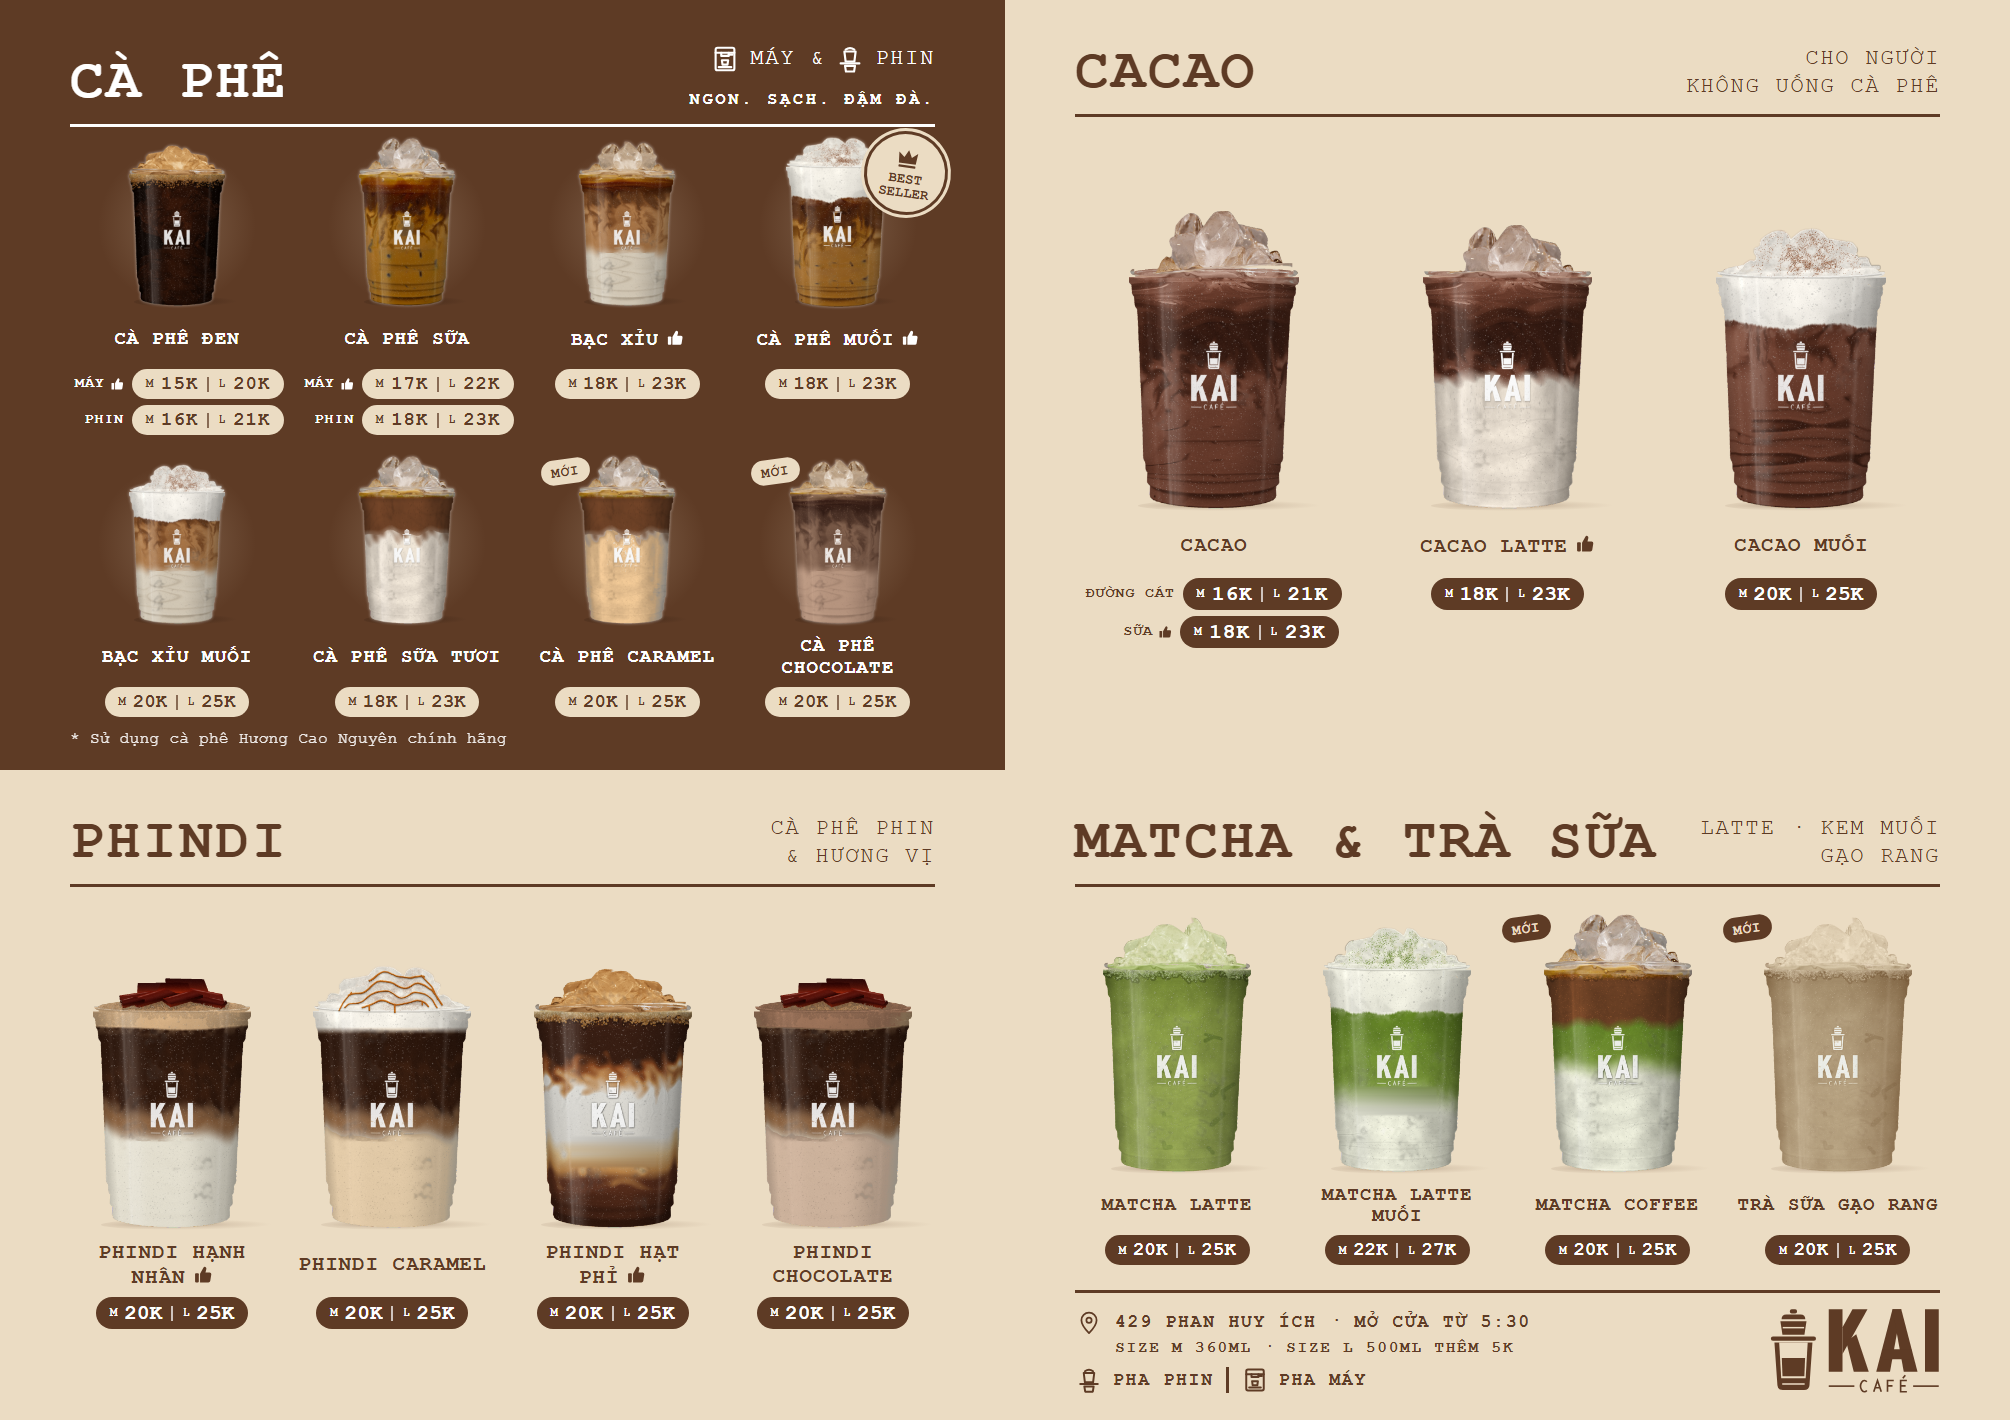
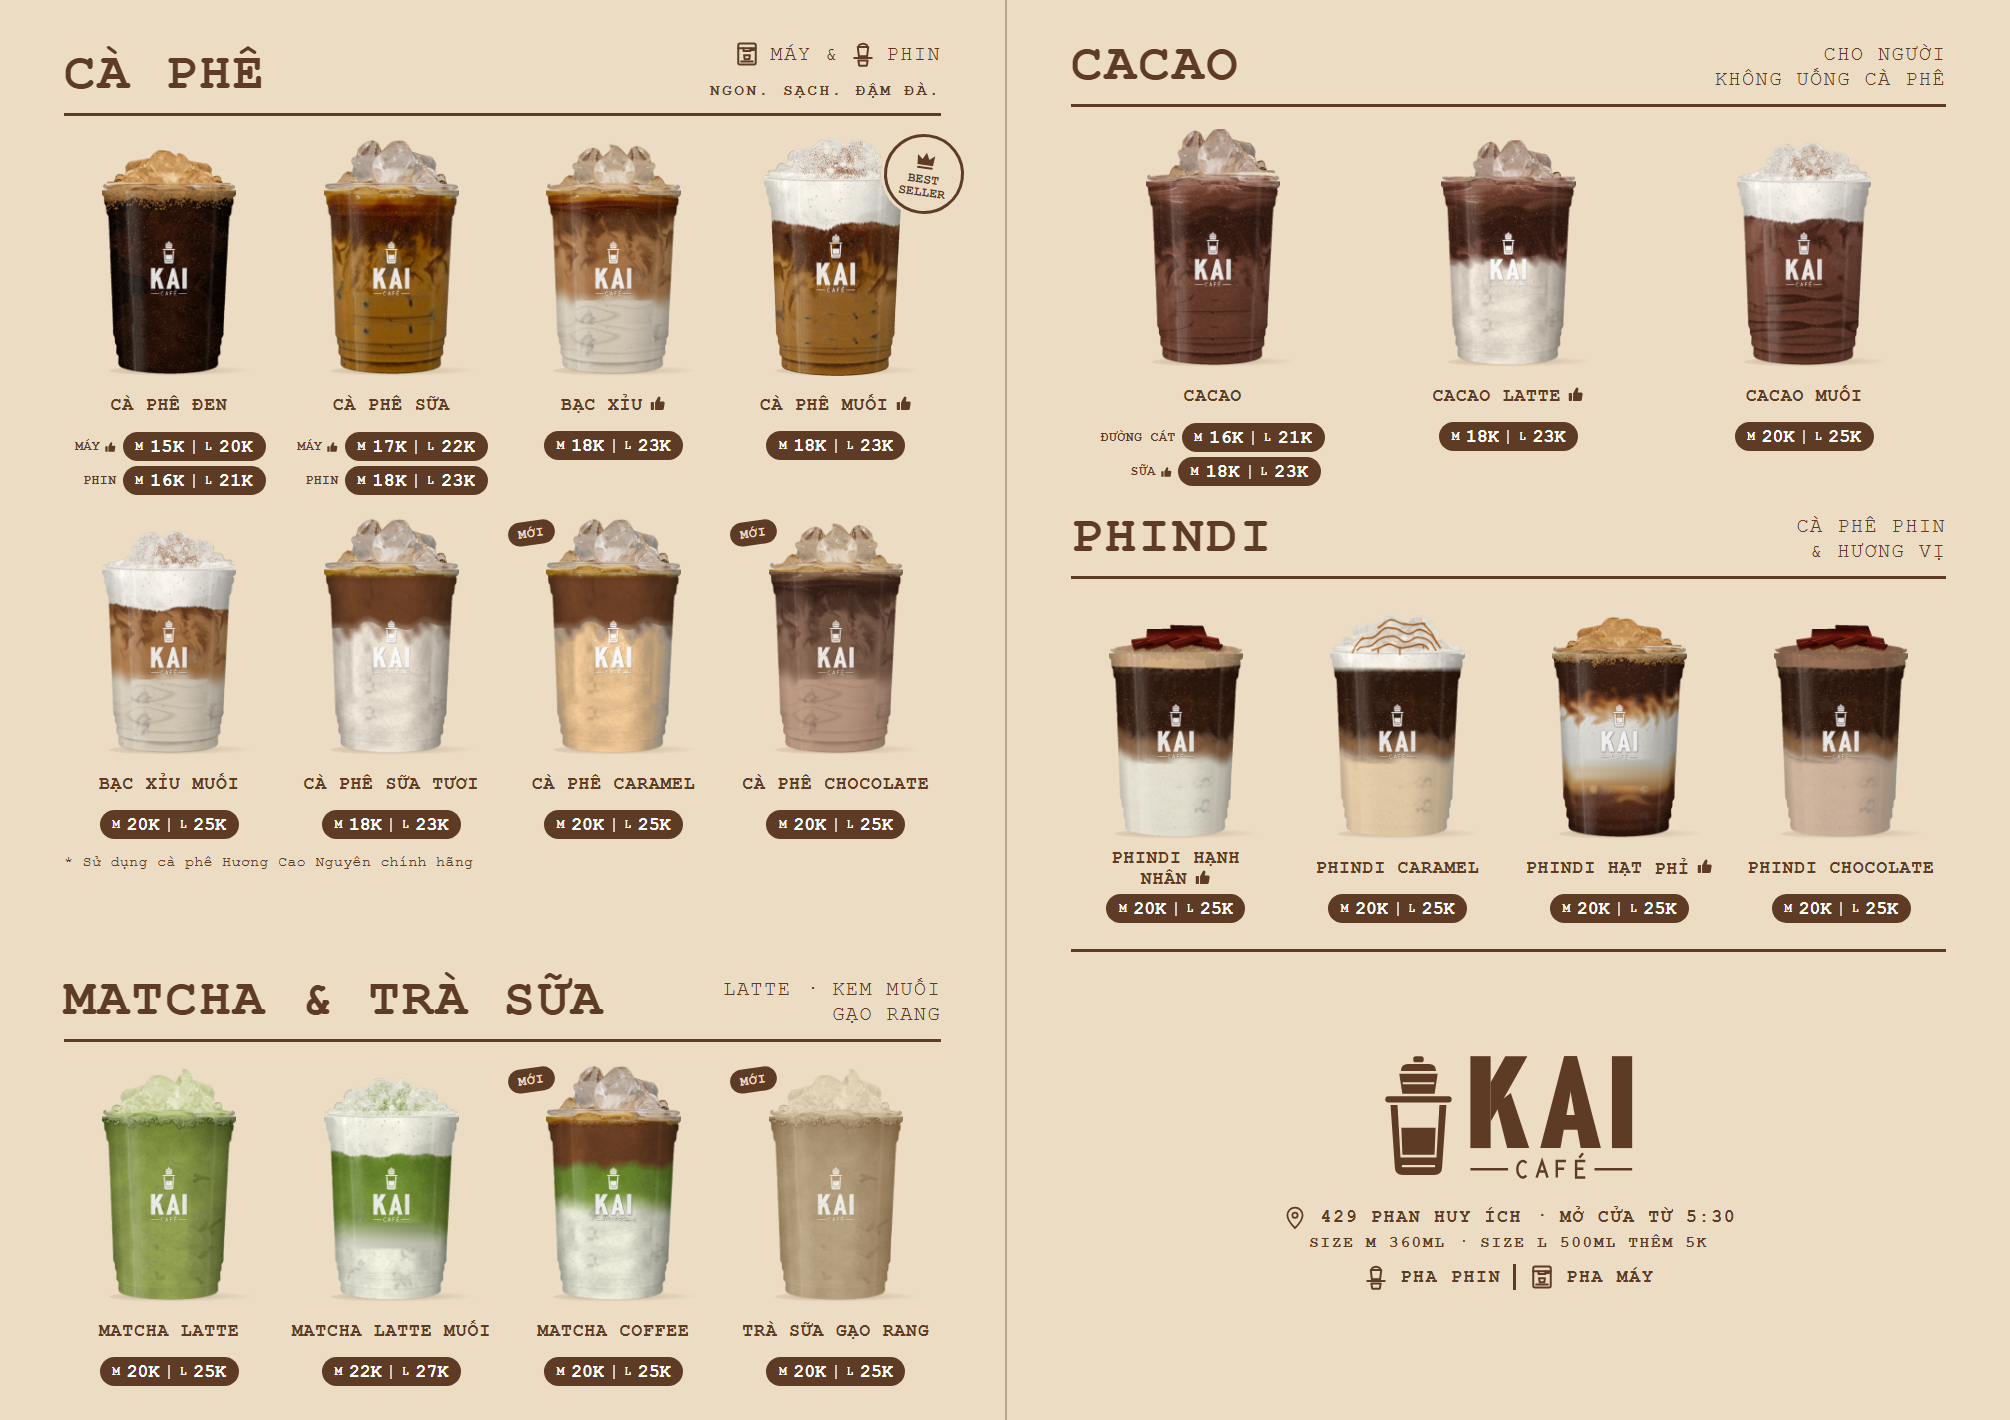
v1.7.312: menu anh tung mon ban 2 nen kem, ly cung co

diff --git a/index.html b/index.html
@@ -3880,7 +3880,7 @@ function renderPlan(){
 
 /* ============ render: KIỂM CHỨNG (định lượng · công thức · dữ liệu cần thêm · tự kiểm) ============
  * Nguyên tắc: (1) "Data sẵn sàng?" trước khi tin số, (2) chỉ kết luận khi đủ mẫu, (3) giả định và điểm mù hiện ra ở UI, (4) tự kiểm bất biến bằng code chạy trên chính data đang xem. */
-const BAN_DASH = 'v1.7.311';   // bump ĐỦ 3 chỗ: hằng này · dòng đầu CHANGELOG · (chip thanh bên và tiêu đề "Có gì mới" tự lấy từ đây); bất biến 19 kiểm điều này
+const BAN_DASH = 'v1.7.312';   // bump ĐỦ 3 chỗ: hằng này · dòng đầu CHANGELOG · (chip thanh bên và tiêu đề "Có gì mới" tự lấy từ đây); bất biến 19 kiểm điều này
 const KIEM_NL = {   // nguồn số đang dùng + độ tin cậy (1 ước tính · 2 Kai chốt · 3 có hoá đơn / ghi trên bao bì) + cách kiểm cho từng nguyên liệu (mã tab Kho)
   cf:{nguon:'Kai chốt 18g = 45ml, 1 kg ≈ 55 ly; giá 240.000 đ/kg (sổ chi ghi 0 đ vì được tặng 5kg → dùng giá tham chiếu)', tin:2, cach:'Cân 5 lần pha thực tế; sau 3 ngày gõ /kiemkho cf so với số ước tính'},
   cfb:{nguon:'Cà phê Phố Núi 1,5 kg · 375.000 đ – chưa có món nào dùng trong công thức', tin:1, cach:'Xác nhận món phin dùng cà phê hạt hay bột rồi điền cột cfb'},
@@ -3938,6 +3938,7 @@ const GLOSS_KAI = [   // định nghĩa & công thức mọi con số quan trọ
   ['Dự báo ngày mai', 'Chỉ lấy ngày cùng loại giá với ngày mai (giá thường / đồng giá 15K; chưa đủ 3 ngày thì bỏ ngày khai trương 10K) · TB các ngày cùng thứ gần nhất (≥ 2 ngày, thiếu thì TB 7 ngày) × hệ số khuyến mãi / mưa khi đủ dữ liệu', 'Đơn bot', 'Hiệu suất'],
 ];
 const CHANGELOG = [   // dòng đầu = bản hiện hành; mỗi bản nhiều ý ngắn · v1.7.176: chỉ giữ ~12 bản mới nhất ở đây, bản cũ hơn nằm ở changelog-cu.json (tải khi mở Kiểm chứng) — quá 20 bản thì chuyển bớt sang file đó (thêm vào ĐẦU mảng json)
+  {v:'v1.7.312', ngay:'22/11/2026', nd:['Tài liệu: Menu cầm tay ảnh từng món bản 2 — toàn nền kem, mọi ly cùng cỡ, 2 cột (Cà phê + Matcha & trà sữa │ Cacao + Phindi + logo, địa chỉ)']},
   {v:'v1.7.311', ngay:'22/11/2026', nd:['Tài liệu: thêm Menu cầm tay ảnh từng món (bản nháp) — 4 khối như menu đang dùng, mỗi món một ảnh ly và nút giá M │ L như standee vòm; PDF in A3 để ở máy (pdf-in), dashboard giữ ảnh xem trước']},
   {v:'v1.7.310', ngay:'22/11/2026', nd:['Tài liệu: thêm Sticker tròn mua 3 free upsize 1 (Ø 10 cm, cùng kiểu mua 5 tặng 1) — ảnh PNG 300 dpi và PDF in A4 4 cái, chữ đã chuyển thành hình']},
   {v:'v1.7.309', ngay:'20/11/2026', nd:['Tài liệu: PDF in thiệp đơn mang đi sửa lỗi lệch bố cục (chữ tràn ra ngoài) và đổi sang bản chữ đã chuyển thành hình (0 font)']},
@@ -5071,7 +5072,7 @@ const TAI_LIEU = [
   {nhom:'Ảnh bìa', ten:'Tối giản · 1000 × 500 (2:1)', mo:'Logo giữa, 3 ly trên ly chỉ còn logo, nền be, không chữ, không giá · cỡ chuẩn ảnh bìa 2:1', ngay:'08/11/2026', anh:'anh-bia_toi-gian_1000x500.png', file:[['Tải ảnh 1000 × 500', 'anh-bia_toi-gian_1000x500.png']]},
   {nhom:'Ảnh bìa', ten:'Tối giản · 640 × 700', mo:'Logo giữa, 3 ly, nền be · cỡ ảnh bìa Zalo 640 × 700 (vùng an toàn 640 × 340 ở giữa)', ngay:'08/11/2026', anh:'anh-bia_toi-gian_640x700.png', file:[['Tải ảnh 640 × 700', 'anh-bia_toi-gian_640x700.png']]},
   {nhom:'Ấn phẩm', ten:'Menu cầm tay', mo:'Bản đang dùng · 4 khối Cà phê · Cacao · Phindi · Matcha & trà sữa, có 4 món mới (bán từ 10/11), giá M │ L, nút like món bán chạy · chữ Courier New · A3 ngang 420 × 297 mm (chưa có lề tràn) · file PDF in: hỏi Marketing (không để trên dashboard)', ngay:'09/11/2026', anh:'menu-mon-moi.png', file:[['Ảnh xem trước', 'menu-mon-moi.png']]},
-  {nhom:'Ấn phẩm', ten:'Menu cầm tay · ảnh từng món (nháp)', mo:'Bản mới chờ chủ duyệt · 4 khối như menu đang dùng (Cà phê nền nâu · Cacao · Phindi · Matcha & trà sữa), mỗi món một ảnh ly + nút giá M │ L như standee vòm · cà phê đen / sữa (máy, phin) và cacao (đường cát, sữa) chung một ảnh, mỗi kiểu một dòng giá · ghi “mở cửa từ 5:30” · A3 ngang 420 × 297 mm, chữ đã chuyển thành hình · file PDF in (10 MB): hỏi Marketing (không để trên dashboard)', ngay:'22/11/2026', anh:'menu-anh-tung-mon.png', file:[['Ảnh xem trước', 'menu-anh-tung-mon.png']]},
+  {nhom:'Ấn phẩm', ten:'Menu cầm tay · ảnh từng món (nháp)', mo:'Bản 2 chờ chủ duyệt · toàn nền kem, mọi ly cùng cỡ · 4 khối Cà phê · Matcha & trà sữa │ Cacao · Phindi + logo, địa chỉ · mỗi món một ảnh ly + nút giá M │ L như standee vòm · cà phê đen / sữa (máy, phin) và cacao (đường cát, sữa) chung một ảnh, mỗi kiểu một dòng giá · ghi “mở cửa từ 5:30” · A3 ngang 420 × 297 mm, chữ đã chuyển thành hình · file PDF in (10 MB): hỏi Marketing (không để trên dashboard)', ngay:'22/11/2026', anh:'menu-anh-tung-mon.png', file:[['Ảnh xem trước', 'menu-anh-tung-mon.png']]},
   {nhom:'Ấn phẩm', ten:'Standee vòm ảnh thật · đã dán sticker', mo:'Standee cắt vòm 59,8 × 101,4 cm, giá chỉ từ 15K · dán 3 sticker Ø 10 cm: +5K size lớn (trái nhãn 15K), mua 5 tặng 1 (phải nhãn 15K), thân thiết −2K (cạnh BEST SELLER) · mở cửa 5:30 – 10:30 · file in có lề 3 mm, chữ đã phá nét (08/11) · gửi nhà in kèm file đường cắt + ghi chú · file PDF in: hỏi Marketing (không để trên dashboard)', ngay:'08/11/2026', anh:'standee-vom_dan-3-sticker.png', file:[['Ảnh đã dán sticker', 'standee-vom_dan-3-sticker.png'], ['PDF đường cắt vòm', 'standee-vom_duong-cat_598x1014mm.pdf'], ['Ghi chú gửi nhà in', 'standee-vom_ghi-chu-nha-in.txt'], ['Ảnh standee chưa dán', 'standee-vom.png'], ['PDF A4 bộ dán standee (3 loại)', 'sticker-tron_A4_bo-dan-standee.pdf']]},
   {nhom:'Ấn phẩm', ten:'Bảng món mới A3', mo:'Bán từ 10/11 · 4 món mới: Cà phê caramel · Cà phê chocolate · Matcha coffee · Trà sữa gạo rang + Phindi caramel · Phindi chocolate (chưa có trên standee vòm) · cả 6 món M 20K │ L 25K · A3 ngang 420 × 297 mm · ảnh ly món mới là ảnh ghép, chưa phải ảnh chụp · file PDF in: hỏi Marketing (không để trên dashboard)', ngay:'09/11/2026', anh:'bang-mon-moi_A3.png', file:[['Ảnh xem trước', 'bang-mon-moi_A3.png']]},
   {nhom:'Ấn phẩm', ten:'Công thức size M │ L có ảnh món', mo:'Mỗi món một thẻ: ảnh ly + định lượng M 360 ml │ L 500 ml · 4 nhóm Cà phê · Cacao · Phindi · Matcha & trà sữa (món muối nằm trong nhóm gốc) · in A3 dán xe · file PDF in: hỏi Marketing (không để trên dashboard)', ngay:'12/11/2026', anh:'cong-thuc-M-L-co-anh.png', file:[['Ảnh xem trước', 'cong-thuc-M-L-co-anh.png']]},
